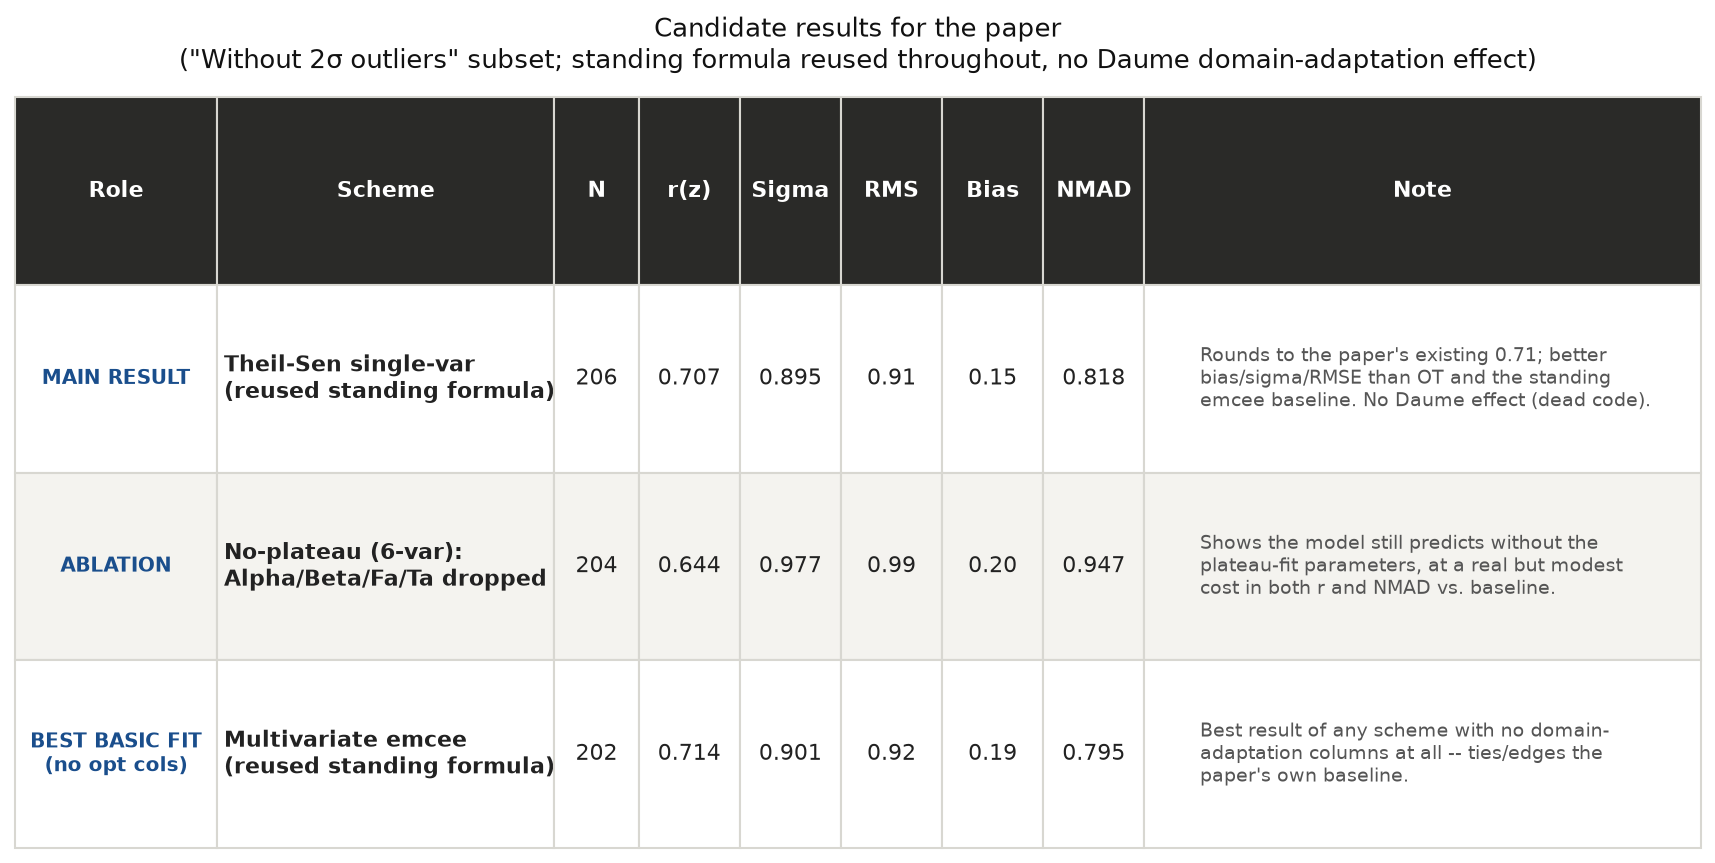
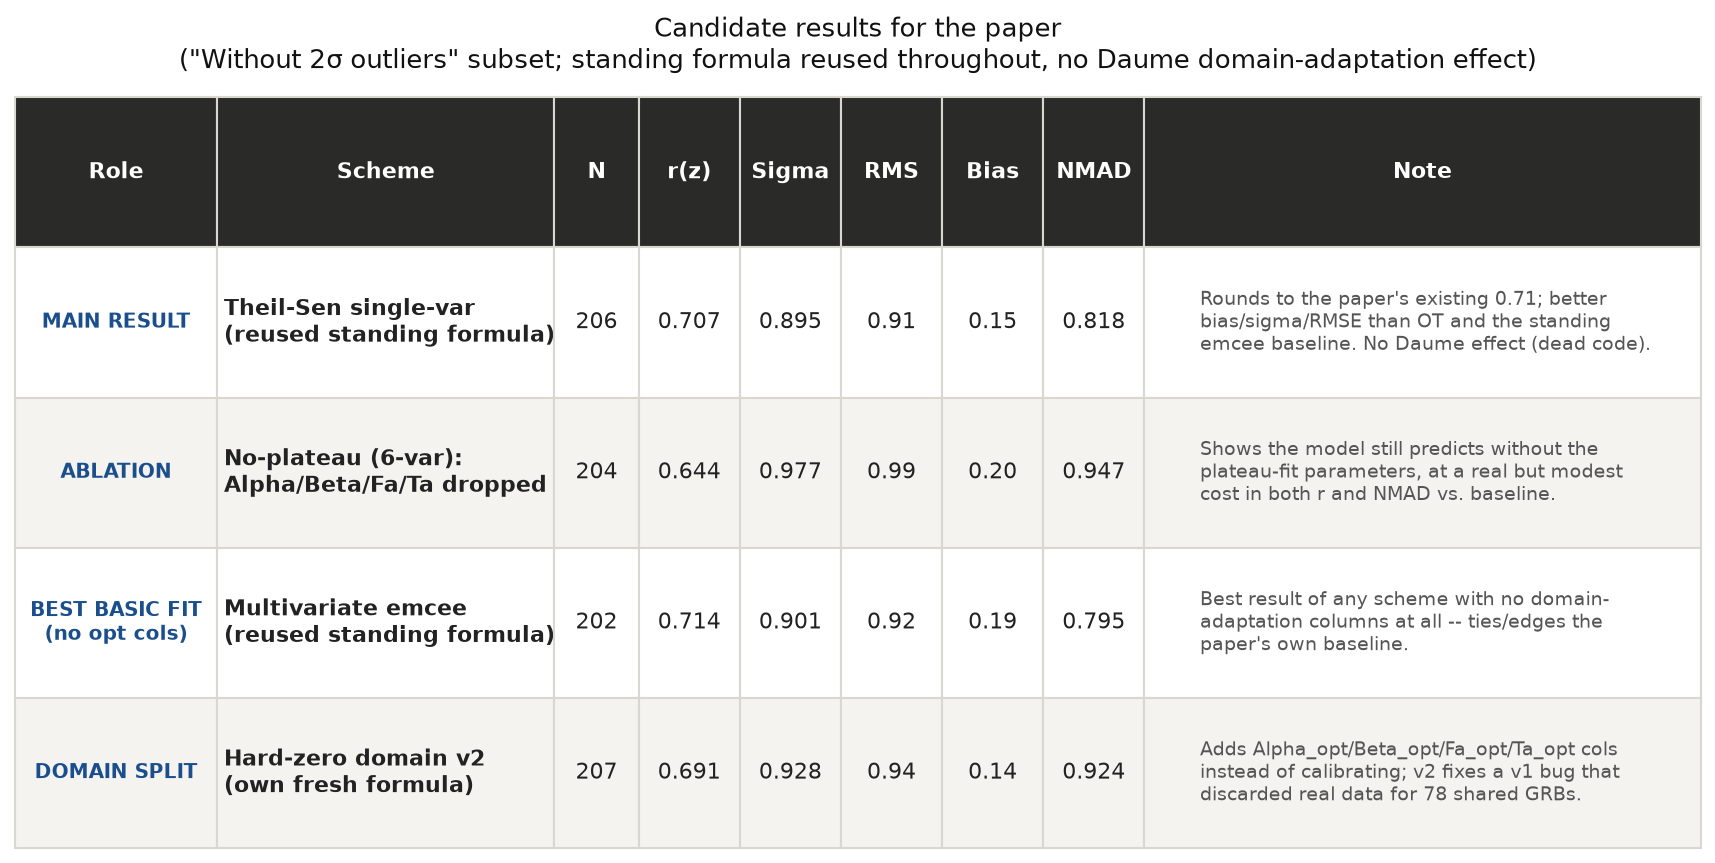
Add hard-zero domain v2 as a 4th paper candidate result
r(z)=0.691, N=207 -- a structurally different domain-handling strategy
from the calibrated schemes (adds Alpha_opt/Beta_opt/Fa_opt/Ta_opt
columns, hard-zeroed where no real optical measurement exists, instead
of projecting optical onto the X-ray scale). v2 over v1: v1 discarded
real data for the 78 calibration-anchor GRBs by hard-zeroing their opt
columns even though real optical values existed; v2 fixes this and
scores marginally higher on the headline metric.

Also confirmed via a full repo-wide scan that the no-plateau ablation
already in this folder (#2, r=0.644) is the only result anywhere that
genuinely excludes Alpha/Beta/Fa/Ta -- nothing better-scoring to add
there. Listed the other r>0.70 candidates surveyed but not added
(ransac, multivariate emcee WITH Daume, etc.) in the README for later.

diff --git a/paper_candidate_results/build_summary_table.py b/paper_candidate_results/build_summary_table.py
@@ -14,6 +14,8 @@ rows = [
      'Shows the model still predicts without the\nplateau-fit parameters, at a real but modest\ncost in both r and NMAD vs. baseline.'],
     ['BEST BASIC FIT\n(no opt cols)', 'Multivariate emcee\n(reused standing formula)', '202', '0.714', '0.901', '0.92', '0.19', '0.795',
      'Best result of any scheme with no domain-\nadaptation columns at all -- ties/edges the\npaper\'s own baseline.'],
+    ['DOMAIN SPLIT', 'Hard-zero domain v2\n(own fresh formula)', '207', '0.691', '0.928', '0.94', '0.14', '0.924',
+     'Adds Alpha_opt/Beta_opt/Fa_opt/Ta_opt cols\ninstead of calibrating; v2 fixes a v1 bug that\ndiscarded real data for 78 shared GRBs.'],
 ]
 
 fig, ax = plt.subplots(figsize=(14.5, 6.5), facecolor='white')

diff --git a/paper_candidate_results/README.md b/paper_candidate_results/README.md
@@ -1,6 +1,6 @@
 # Candidate results for the paper
 
-Three results pulled out of the full `combination_scheme_comparison/` investigation,
+Four results pulled out of the full `combination_scheme_comparison/` investigation,
 specifically the ones flagged as worth publishing. All three use the "Without 2σ
 outliers" subset and the pipeline described in the main methodology (MICE `midastouch`
 m=20/maxit=20, non-negotiable + M-estimator outlier cuts, 17-learner SuperLearner
@@ -73,15 +73,57 @@ all four optical parameters jointly rather than just its own counterpart — reu
 the standing formula. The single best number of any scheme tested with no `is_optical`/
 opt-columns involved at all; ties/edges the paper's own baseline (0.712).
 
+## 4. Hard-zero domain v2 — no calibration, domain split via extra columns
+
+**r(z) = 0.691, N=207**, Sigma=0.928, RMS=0.94, Bias=0.14, NMAD=0.924.
+`plots/4_hardzero_domain_v2_r0.691.png`
+
+A structurally different way of handling the optical/X-ray mismatch than
+calibration (emcee/Theil-Sen project optical measurements onto the X-ray
+scale via a fitted regression). Hard-zero instead adds four *extra* columns —
+`Alpha_opt`/`Beta_opt`/`log10Fa_opt`/`log10Ta_opt` — set to zero for GRBs with
+no real optical measurement and populated with the real value where one
+exists, and lets the ensemble learn to use both scales directly with no
+cross-calibration step at all. Own fresh formula (`formulas/hardzero_domain_
+v2_own_formula.txt`).
+
+**Why v2, not v1** (v1: r=0.683, N=208 — also clears 0.68 but not used here):
+v1 hard-zeroed the `_opt` columns even for the 78 GRBs that have *both* a real
+X-ray and a real optical measurement (the calibration-anchor "shared" GRBs),
+discarding real data for them. v2 leaves those specific cells as NaN for MICE
+to impute instead, while still hard-zeroing the 145 genuinely X-ray-only GRBs'
+`_opt` columns. v2 is both the methodologically-corrected version and scores
+marginally higher on the headline metric, so it's the one included here.
+
+**Framing**: a genuinely different domain-handling strategy, not a variant of
+an existing candidate — worth presenting as "the ensemble can learn to use
+both measurement scales directly, without an explicit calibration step,
+at a modest cost relative to the calibrated schemes" (0.691 vs. 0.707-0.714
+for the calibrated results above).
+
 ## Files
 
-- `plots/summary_table.png` — the 3-row comparison table
-- `plots/1_*.png`, `plots/2_*.png`, `plots/3_*.png` — cross-validated predicted-vs-observed
-  plots (linear z, without 2σ outliers), full stats embedded in each title
+- `plots/summary_table.png` — the 4-row comparison table
+- `plots/1_*.png` .. `plots/4_*.png` — cross-validated predicted-vs-observed
+  plots (linear z, with catastrophic outliers), full stats embedded in each title
 - `results/` — the raw per-GRB CV CSVs (predicted vs. observed z) backing each plot above
-- `formulas/` — the two formulas involved (standing, reused by both #1 and #3; and
-  the no-plateau ablation's own fresh formula for #2)
-- `bias_correction/` — the paper's Sec 4.6 bias-correction method applied to all three
+- `formulas/` — the formulas involved: standing (reused by #1 and #3), the
+  no-plateau ablation's own fresh formula (#2), and hard-zero v2's own fresh
+  formula (#4)
+- `bias_correction/` — the paper's Sec 4.6 bias-correction method applied to
+  the first three (not yet extended to #4 — ask if that's wanted)
 
 Full provenance, the complete 9-scheme comparison these were selected from, and the
-bugs found/fixed along the way live in `combination_scheme_comparison/README.md`.
+bugs found/fixed along the way live in `combination_scheme_comparison/README.md`
+(hard-zero v1/v2 specifically: see its "hard-zero-domain v2 fix" section).
+
+## Other candidates surveyed but not added here
+
+A full repo-wide scan (every run with a `Results_wo_catout_*_correlation_plot.csv`)
+found several more results clearing r(with)>0.70 that aren't included above:
+ransac outlier handling (0.711), multivariate emcee WITH Daume (0.711),
+Theil-Sen multivariate with a reused/optadded formula (0.708), and a second
+multivariate-emcee formula-generation variant (0.705) — plus ~8 more that only
+clear 0.70 on the "without catastrophic outliers" number. None added here since
+the ask was specifically hard-zero + the no-plateau ablation; ask if any of
+these others should be added too.
